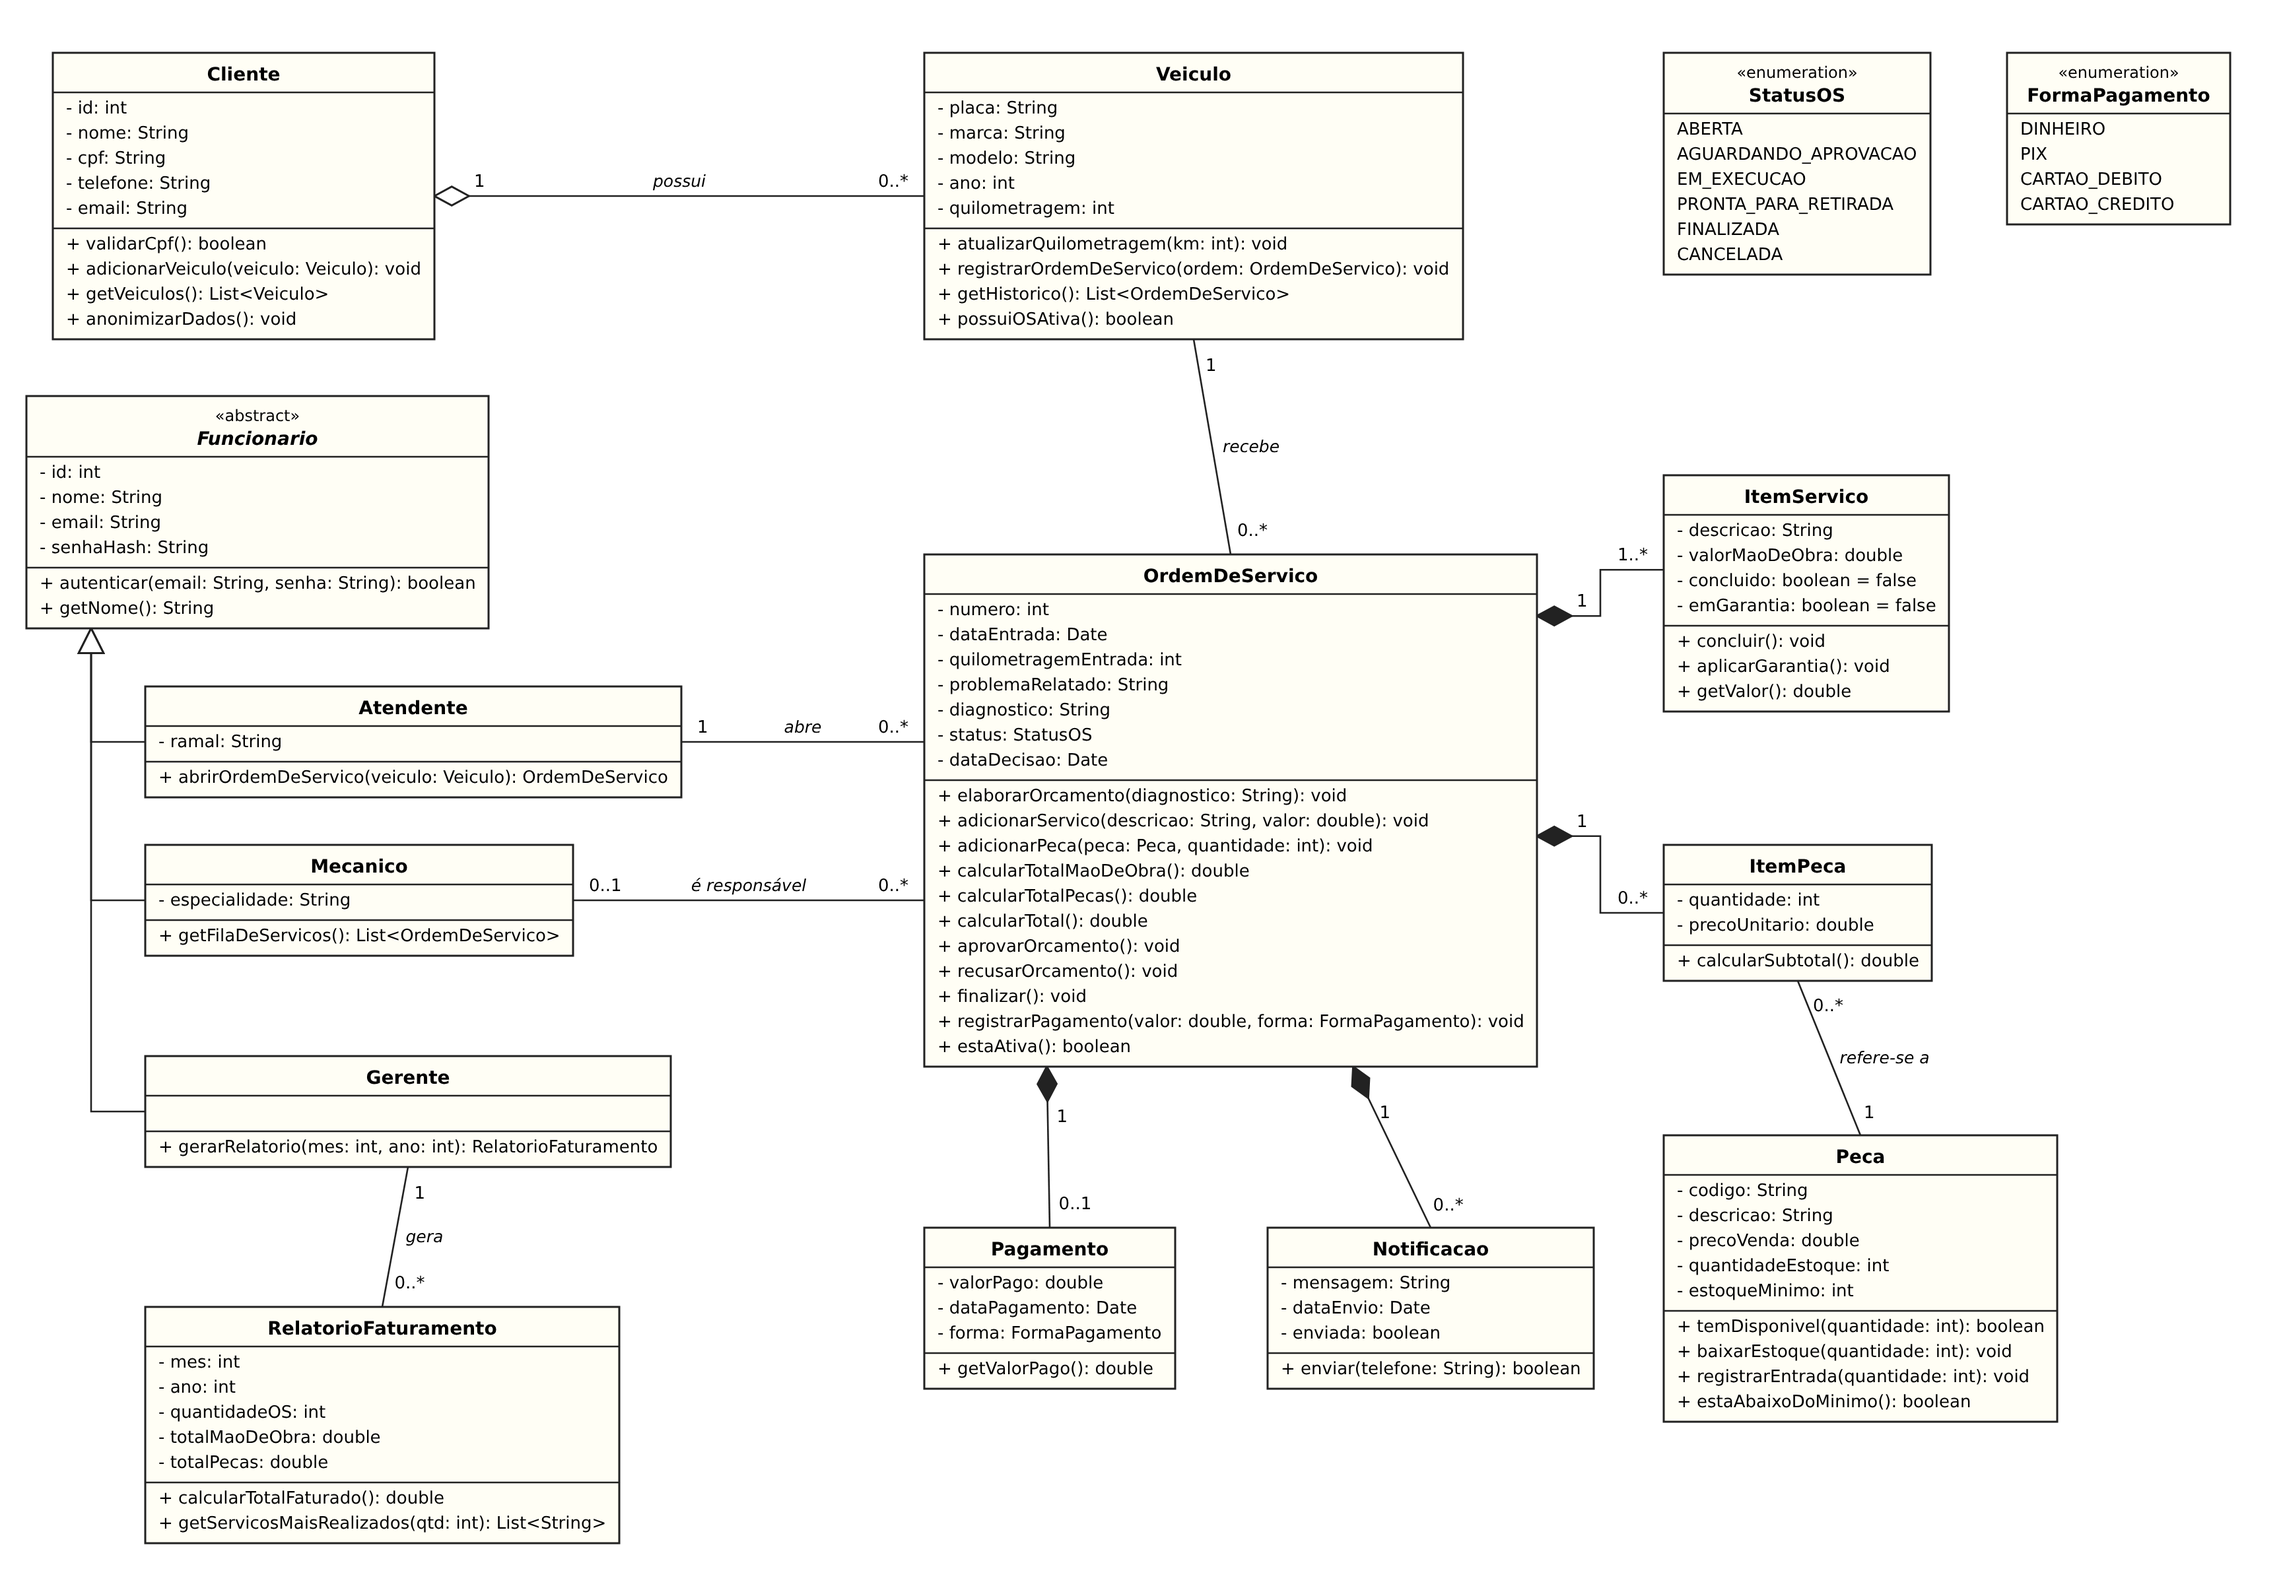
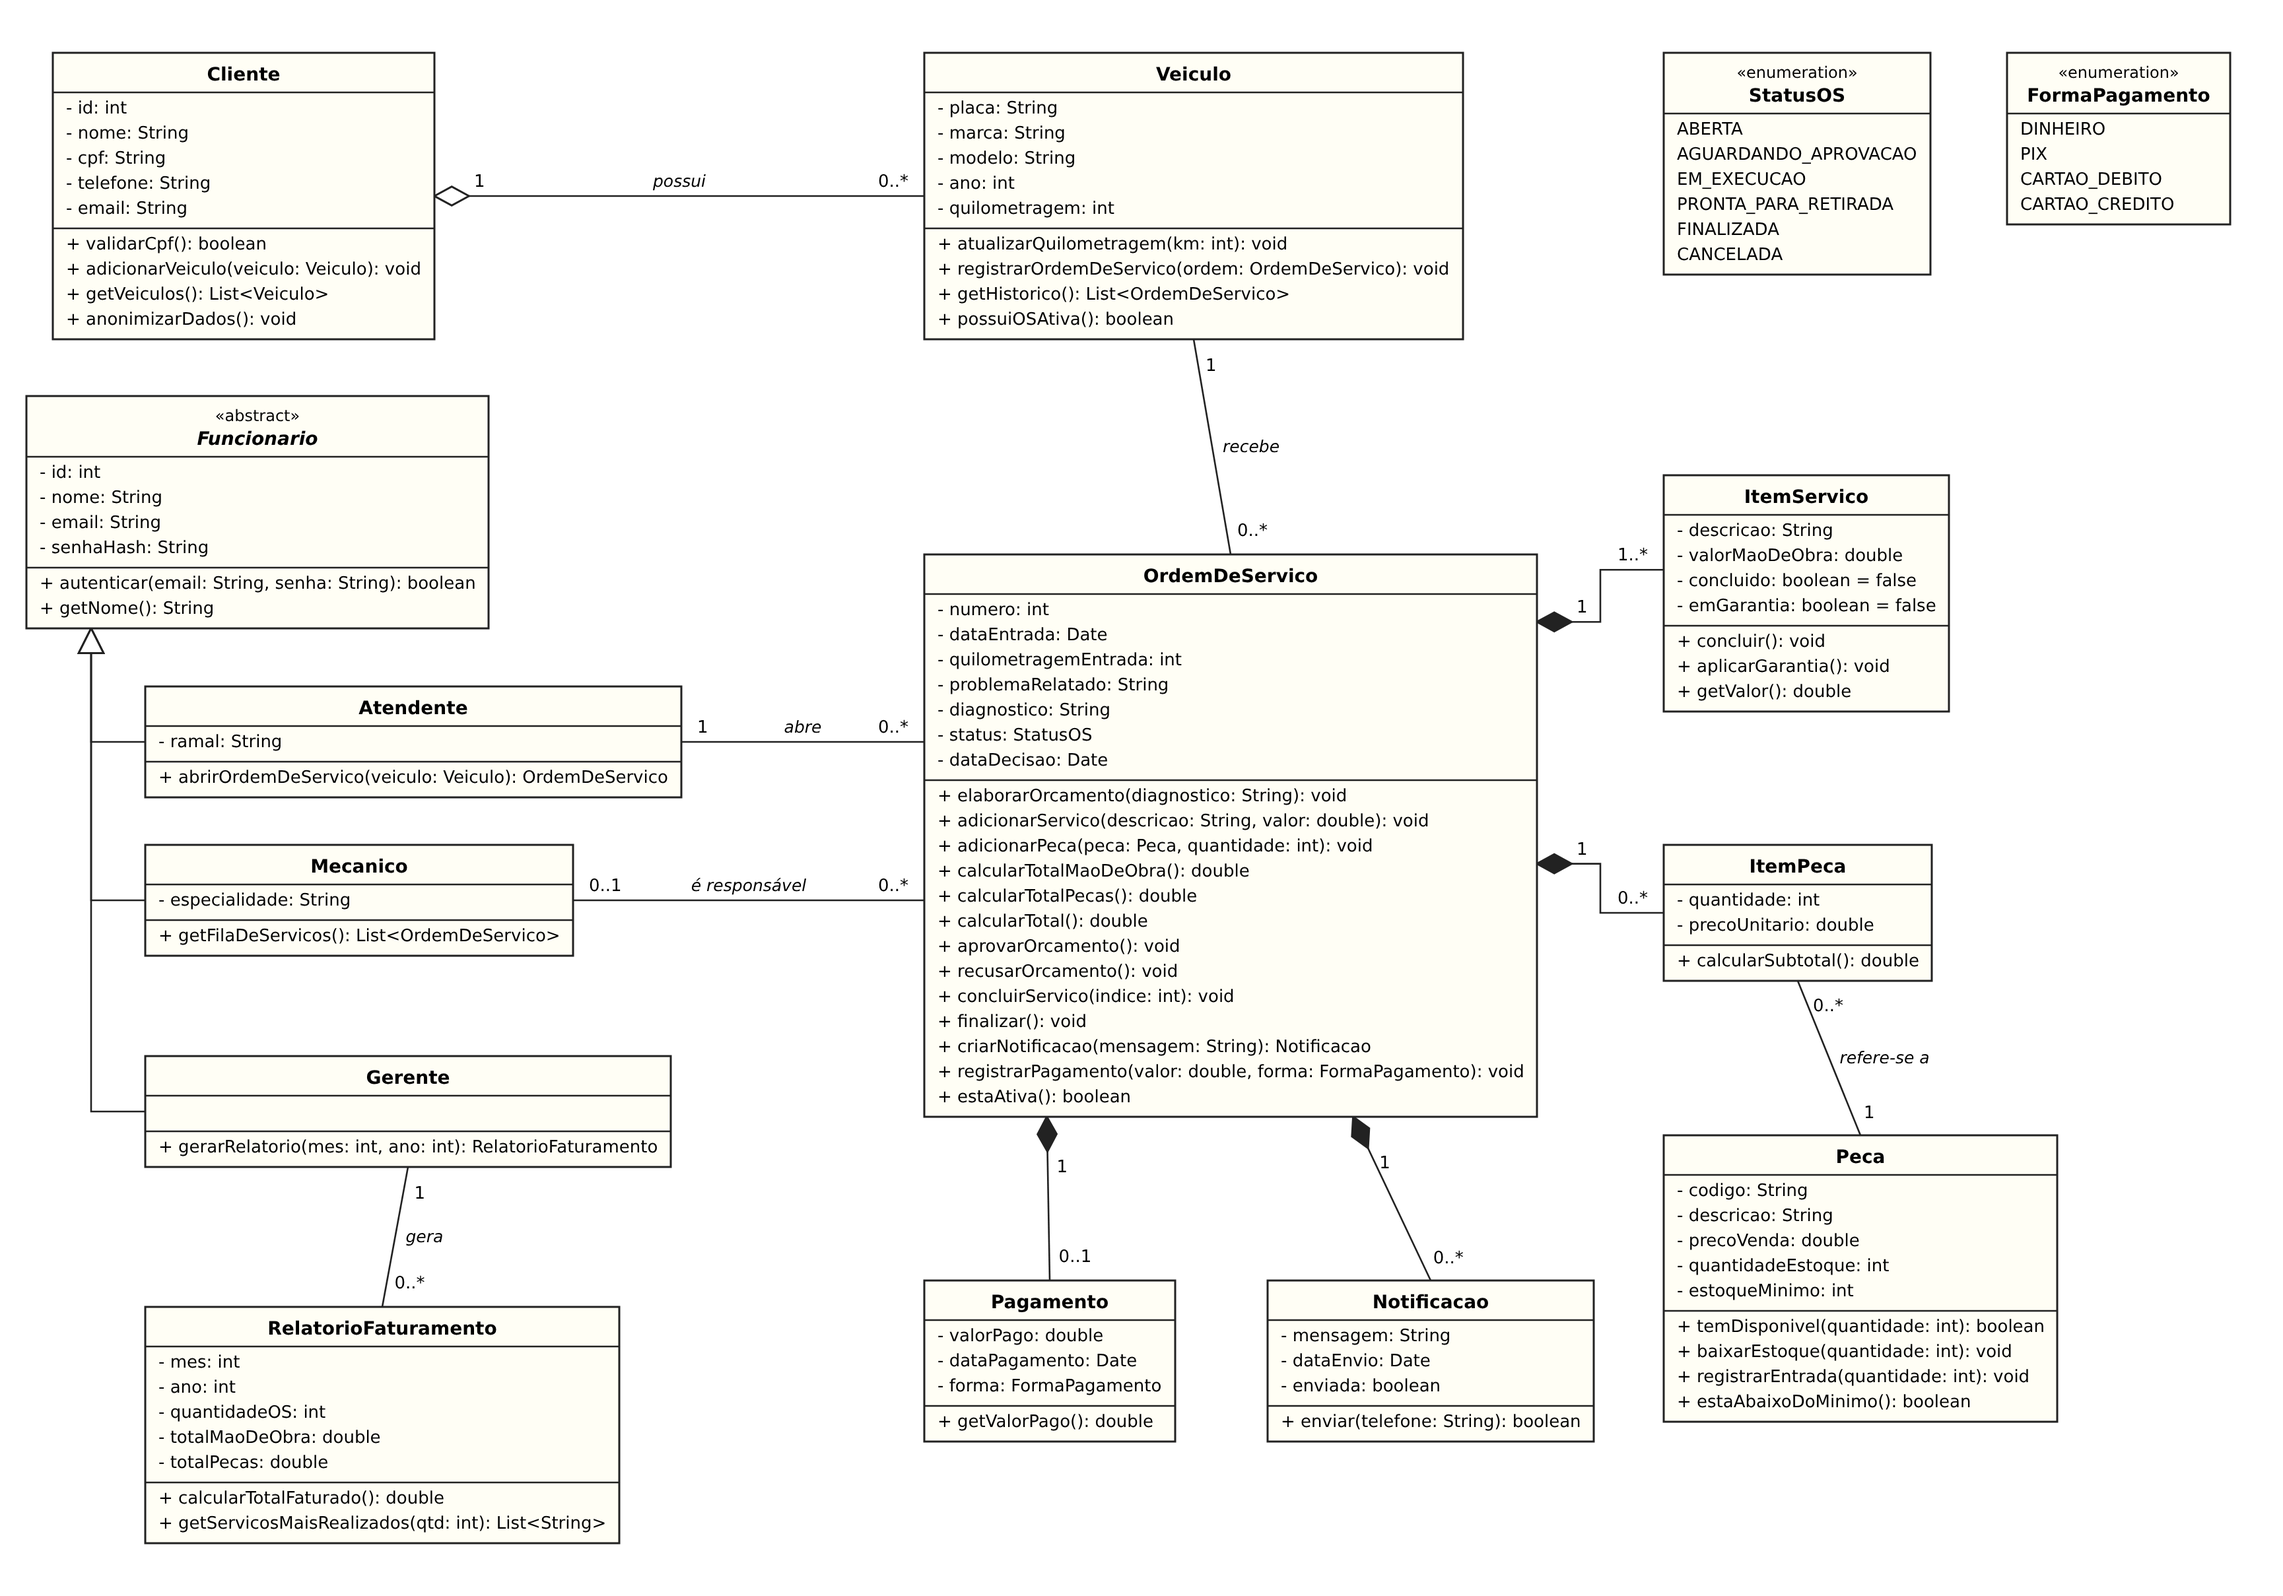
docs: atualiza diagrama e descrição das classes com o fluxo da OS
Claude-Session: https://claude.ai/code/session_0128xw2GcSyfk9r3eftFyBrL

diff --git a/docs/03-diagrama-de-classes.md b/docs/03-diagrama-de-classes.md
@@ -45,7 +45,7 @@ Arquivo editável: [`diagramas/classes.drawio`](diagramas/classes.drawio) (abrir
 ## 4. Como as regras de negócio aparecem nos métodos
 
 - `OrdemDeServico.aprovarOrcamento()` chama `temDisponivel()` de cada peça antes de aprovar (RN-05) e, ao aprovar, chama `baixarEstoque()` (RF-08).
-- `ItemServico.concluir()` só é permitido se o status da OS for `EM_EXECUCAO` (RN-04).
-- `OrdemDeServico.finalizar()` exige que todos os `ItemServico` estejam com `concluido = true`, muda o status para `PRONTA_PARA_RETIRADA` e cria uma `Notificacao` (RF-11).
+- `OrdemDeServico.concluirServico()` só marca um `ItemServico` como concluído se o status da OS for `EM_EXECUCAO` (RN-04).
+- `OrdemDeServico.finalizar()` exige que todos os `ItemServico` estejam com `concluido = true` e muda o status para `PRONTA_PARA_RETIRADA`. Em seguida, `criarNotificacao()` cria a `Notificacao`, e `enviar()` a entrega ao Serviço de Mensagens (RF-11).
 - `OrdemDeServico.registrarPagamento()` cria o `Pagamento` e só então muda o status para `FINALIZADA` (RN-06).
 - `Veiculo.possuiOSAtiva()` é consultado por `Atendente.abrirOrdemDeServico()` para impedir duas OS ativas no mesmo veículo (RN-03).
